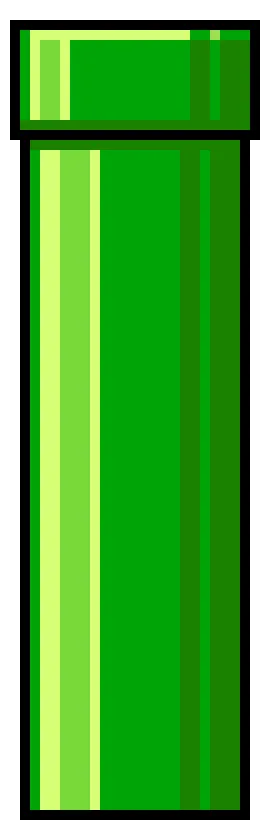
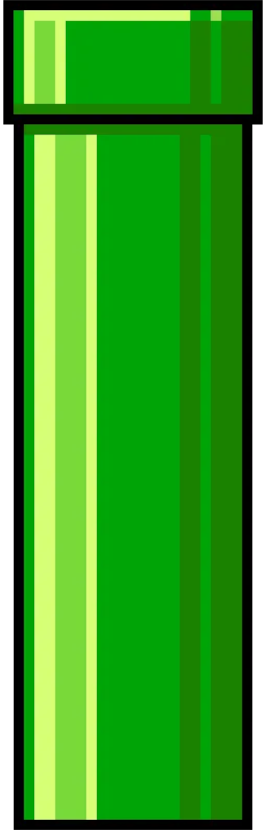
pipes can now be rendered

Changed region(s): [[0.0, 0.0, 0.9778, 1.0]]

diff --git a/flappyBird/flappyBird.js b/flappyBird/flappyBird.js
@@ -1,16 +1,27 @@
 // global variables
 var interval = 16;
 var running = false;
+var score = 2;
+var pipes = [];
+var pipeCount = 0;
 var scoreElement = document.getElementById("current-score");
 const defaultBird = {
     top: 150,
     speed: 3.5,
-    width: 75,
-    height: 55,
+    width: 55,
+    height: 35,
     jumpSpeed: -10,
     gravity: 0.5
 };
 var bird;
+
+var pipeTest = true;
+
+function clearPipes () {
+    var pipeElements = document.getElementsByClassName("pipe-container");
+    for (var i = 0; i < pipeElements.length; i++)
+        pipeElements[i].remove();
+}
 
 function renderStart(){
     // reset bird position
@@ -22,11 +33,12 @@ function renderStart(){
         jumpSpeed: defaultBird.jumpSpeed,
         gravity: defaultBird.gravity
     };
-    console.log(defaultBird.top + ' ' + bird.top);
 
-    // wipe clean
-    
-    // render background, bird, starting pipes
+    // reset score
+    score = 0;
+
+    // remove all pipes
+    clearPipes();
 }
 
 // submit game score to leaderboard
@@ -83,6 +95,7 @@ function resumeGame(){
     hideGamePrompts();
 }
 
+// end game
 function endGame(){
     running = false;
 
@@ -94,13 +107,83 @@ function endGame(){
     losePrompt.classList.remove("hidden");
 
     // change score element
+    document.getElementById("lose-screen-score").textContent = "Score: " + score;
 }
 
 // update position of the bird
 function updateBird(){
     var gameBird = document.getElementById("bird-container");
     gameBird.style.top = bird.top + 'px';
-    // add future rotation
+    /*
+        * add bird rotation
+    */
+}
+
+// add new pipe
+function createPipe(){
+    var newPipe = {
+        left: 800,
+        topPipeBottom: Math.floor(Math.random() * 360) + 40
+    };
+    newPipe.bottomPipeTop = 400 - newPipe.topPipeBottom + 60;
+
+    pipes.push(newPipe);
+}
+
+// create new pipe element, add to DOM
+function createPipeElement(index){
+    // pipe container
+    var newPipeContainer = document.createElement('div');
+    newPipeContainer.classList.add("pipe-container");
+    newPipeContainer.id = "pipe-" + pipeCount;
+    newPipeContainer.style.left = pipes[index].left + "px";
+
+    // upper pipe
+    var upperPipe = document.createElement('div');
+    upperPipe.classList.add("upper-pipe");
+    upperPipe.style.bottom = pipes[index].topPipeBottom + "px";
+    var upperPipeImage = document.createElement('img');
+    upperPipeImage.classList.add("upper-pipe-img");
+    upperPipeImage.src = "pipe.png";
+    upperPipeImage.alt = "upper-pipe";
+    upperPipe.appendChild(upperPipeImage);
+    newPipeContainer.appendChild(upperPipe);
+
+    // lower pipe
+    var lowerPipe = document.createElement('div');
+    lowerPipe.classList.add("lower-pipe");
+    lowerPipe.style.top = pipes[index].bottomPipeTop + "px";
+    var lowerPipeImage = document.createElement('img');
+    lowerPipeImage.classList.add("lower-pipe-img");
+    lowerPipeImage.src = "pipe.png";
+    lowerPipeImage.alt = "upper-pipe";
+    lowerPipe.appendChild(lowerPipeImage);
+    newPipeContainer.appendChild(lowerPipe);
+
+    // add to DOM
+    var gameContainer = document.getElementById("game-container");
+    gameContainer.appendChild(newPipeContainer);
+}
+
+
+// update all pipe positions
+function updatePipes(){
+    // get all pipes
+    var pipeElements = document.getElementsByClassName("pipe-container");
+
+    // add new pipe
+    if (pipeElements.length > pipes.length){
+        createPipeElement();
+    }
+
+    // move pipes
+    for (var i = 0; i < pipes.length - 1; i++)
+        pipes[i].left -= 2;
+
+    // update DOM
+    for (var i = 0; i < pipeElements.length; i++){
+        pipeElements[i].style.left -= 2;
+    }
 }
 
 // update game
@@ -108,11 +191,9 @@ function update(){
     // stop if not running
     if (!running) return;
 
-    console.log("yeeee");
-
     // update game
     updateBird();
-        // update score element
+    document.getElementById("current-score").textContent = score;
 
     // move bird
     bird.top += bird.speed;
@@ -125,15 +206,34 @@ function update(){
         bird.top = 0;
 
     // check bird at bottom
-    if (bird.top > (400 - bird.height))
+    if (bird.top > (400 - (bird.height - 5)))
         endGame();
+
+    // add new pipe if needed
+    if (pipeTest){
+        createPipe();
+        createPipeElement(pipes.length - 1);
+        pipeTest = false;
+    }
+
+    // update pipe position
+    updatePipes();
+
+    // check bird collision
+    /*
+        * TO DO
+    */
+    
+    // check if scored
+    /*
+        * TO DO
+    */
 }
 
 // on key down
 document.addEventListener("keydown", (key) => {
     // jump
     if (key.code === "ArrowUp" || key.key == 'w' || key.code === "Space"){
-        console.log("Jump");
         birdJump();
     }
 

diff --git a/flappyBird/flappyBird.css b/flappyBird/flappyBird.css
@@ -4,20 +4,45 @@
     position: relative;
     left: 100px;
     top: 150px;
-    width: 75px;
-    height: 55px;
+    width: 55px;
+    height: 35px;
 }
 
 #bird-img{
     position: relative;
     bottom: 10px;
-    width: 75px;
-    height: 75px;
+    width: 55px;
+    height: 55px;
 }
 
     /* Pipes */
 .pipe-container{
+    position: absolute;
+    top: 0px;
     height: 400px;
+}
+
+.upper-pipe{
+    position: absolute;
+    width: 75px;
+    height: 230px;
+}
+
+.lower-pipe{
+    position: absolute;
+    width: 75px;
+    height: 230px;
+}
+
+.upper-pipe-img{
+    width: 75px;
+    height: 230px;
+    rotate: 180deg;
+}
+
+.lower-pipe-img{
+    width: 75px;
+    height: 230px;
 }
 
     /* Game Prompts */

diff --git a/flappyBird/flappyBird.html b/flappyBird/flappyBird.html
@@ -66,7 +66,7 @@
             <div id="info-container">
                 <div id="score-container">
                     <h2 id="score-title" class="score-text">Score</h2>
-                    <h3 id="current-score" class="score-text" data-score="0">0</h3>
+                    <h3 id="current-score" class="score-text">0</h3>
                 </div>
                 <div id="start-stop-container">
                     <button id="start-game-button">Start</button>
